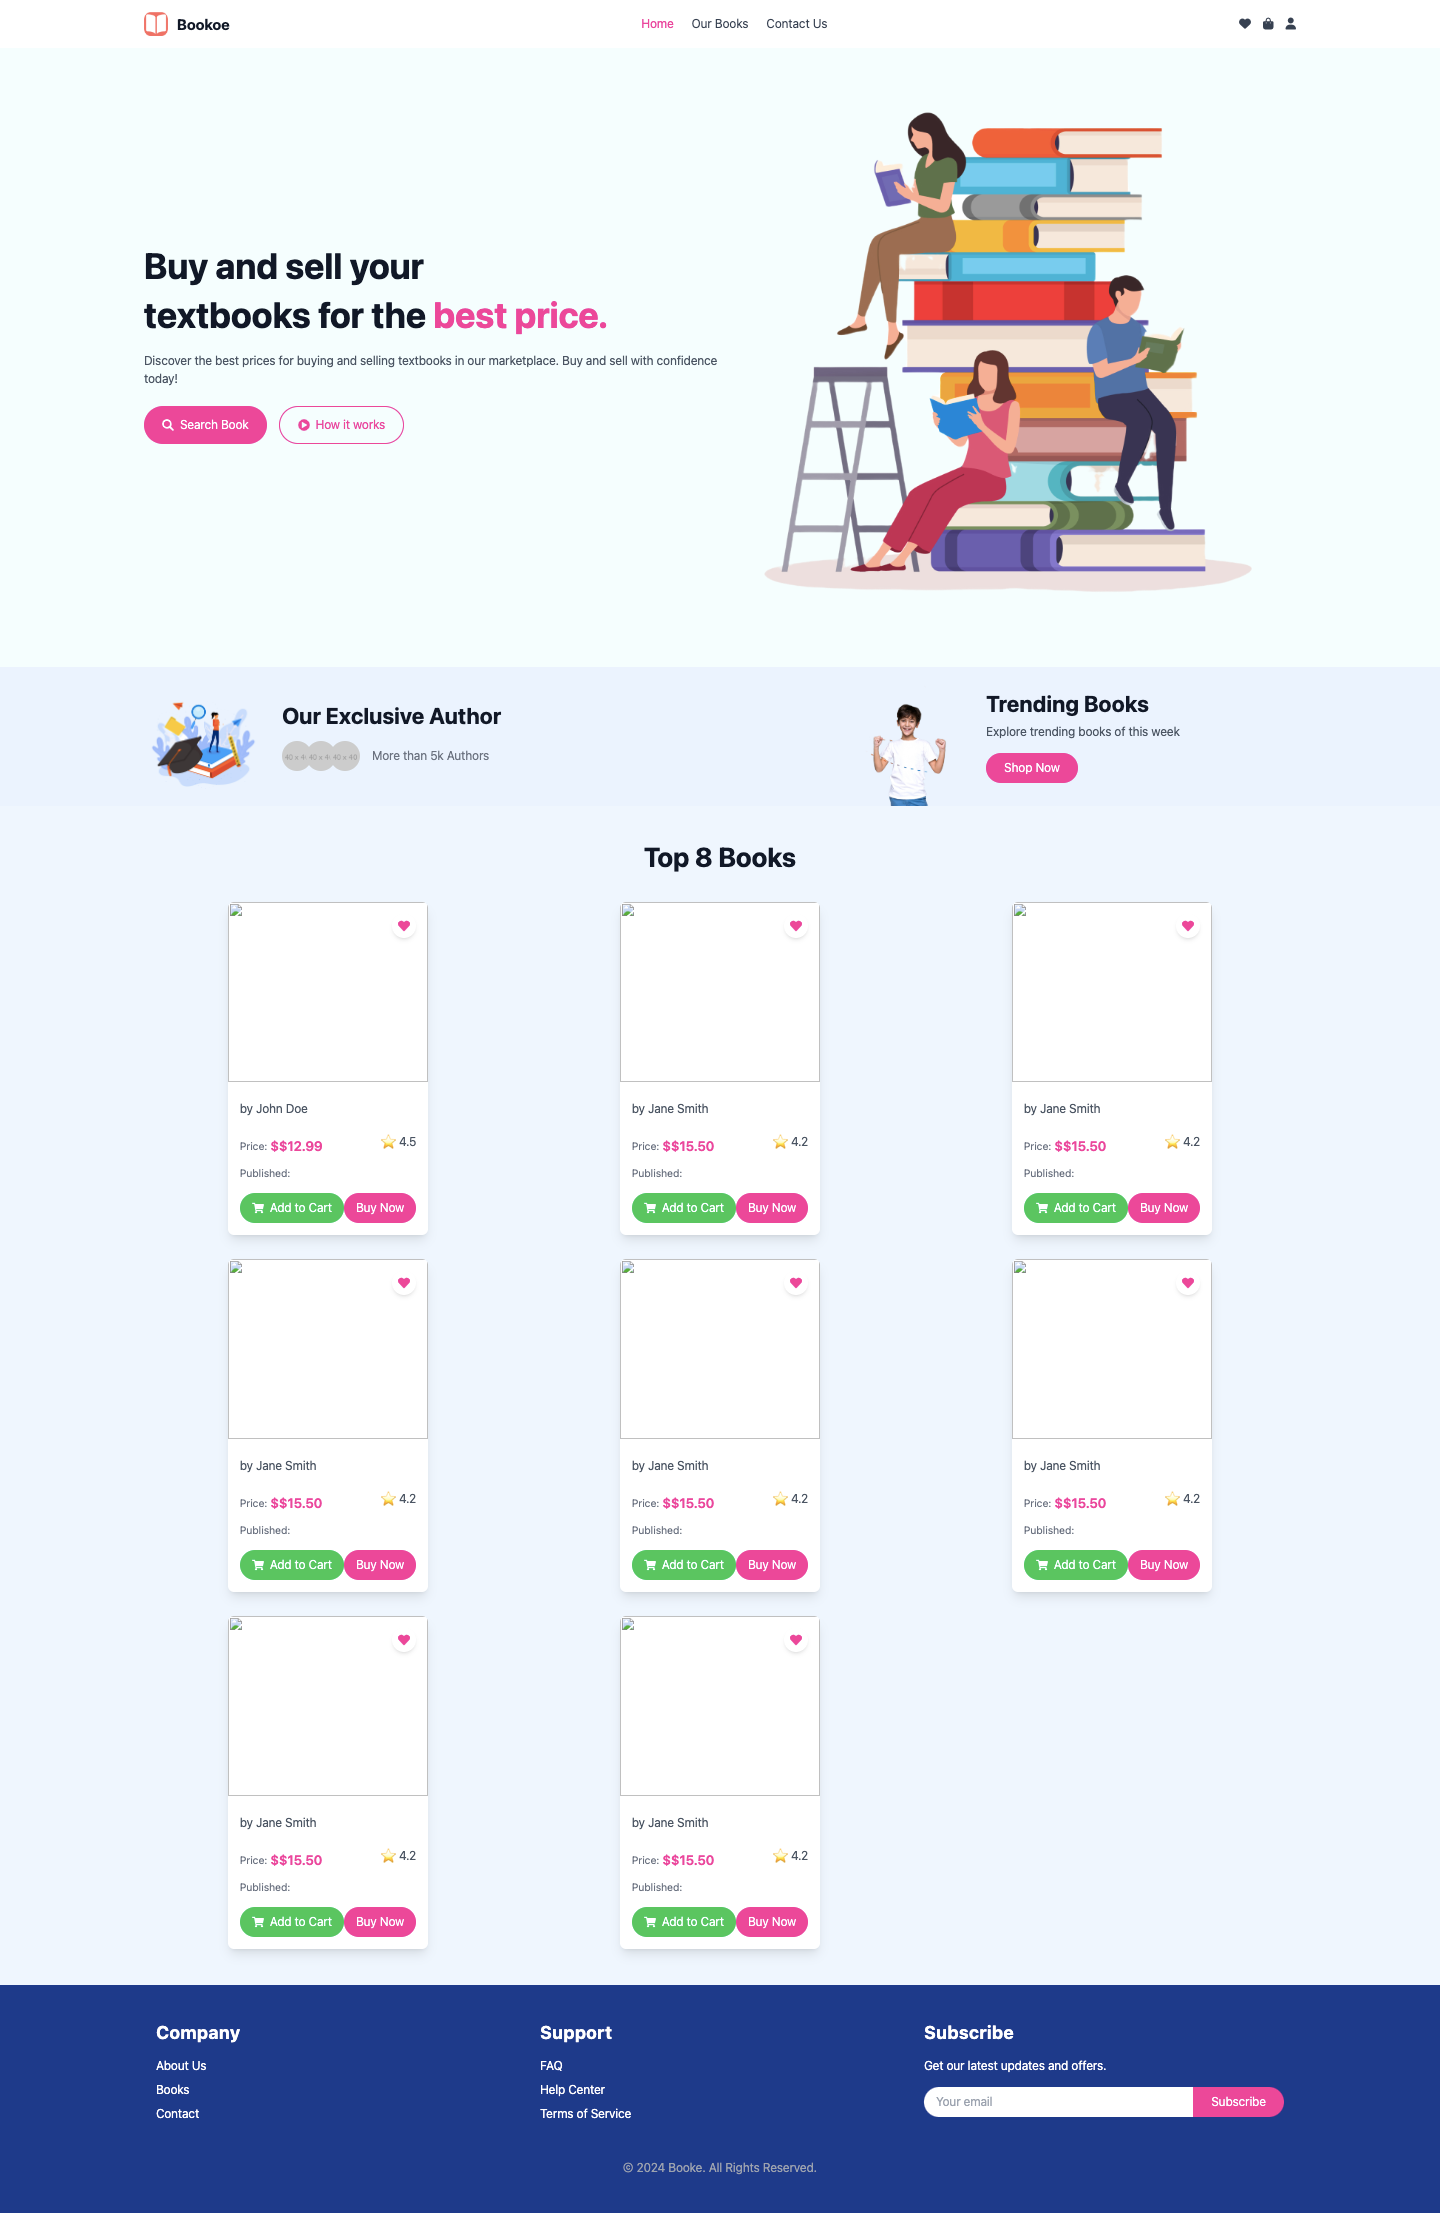
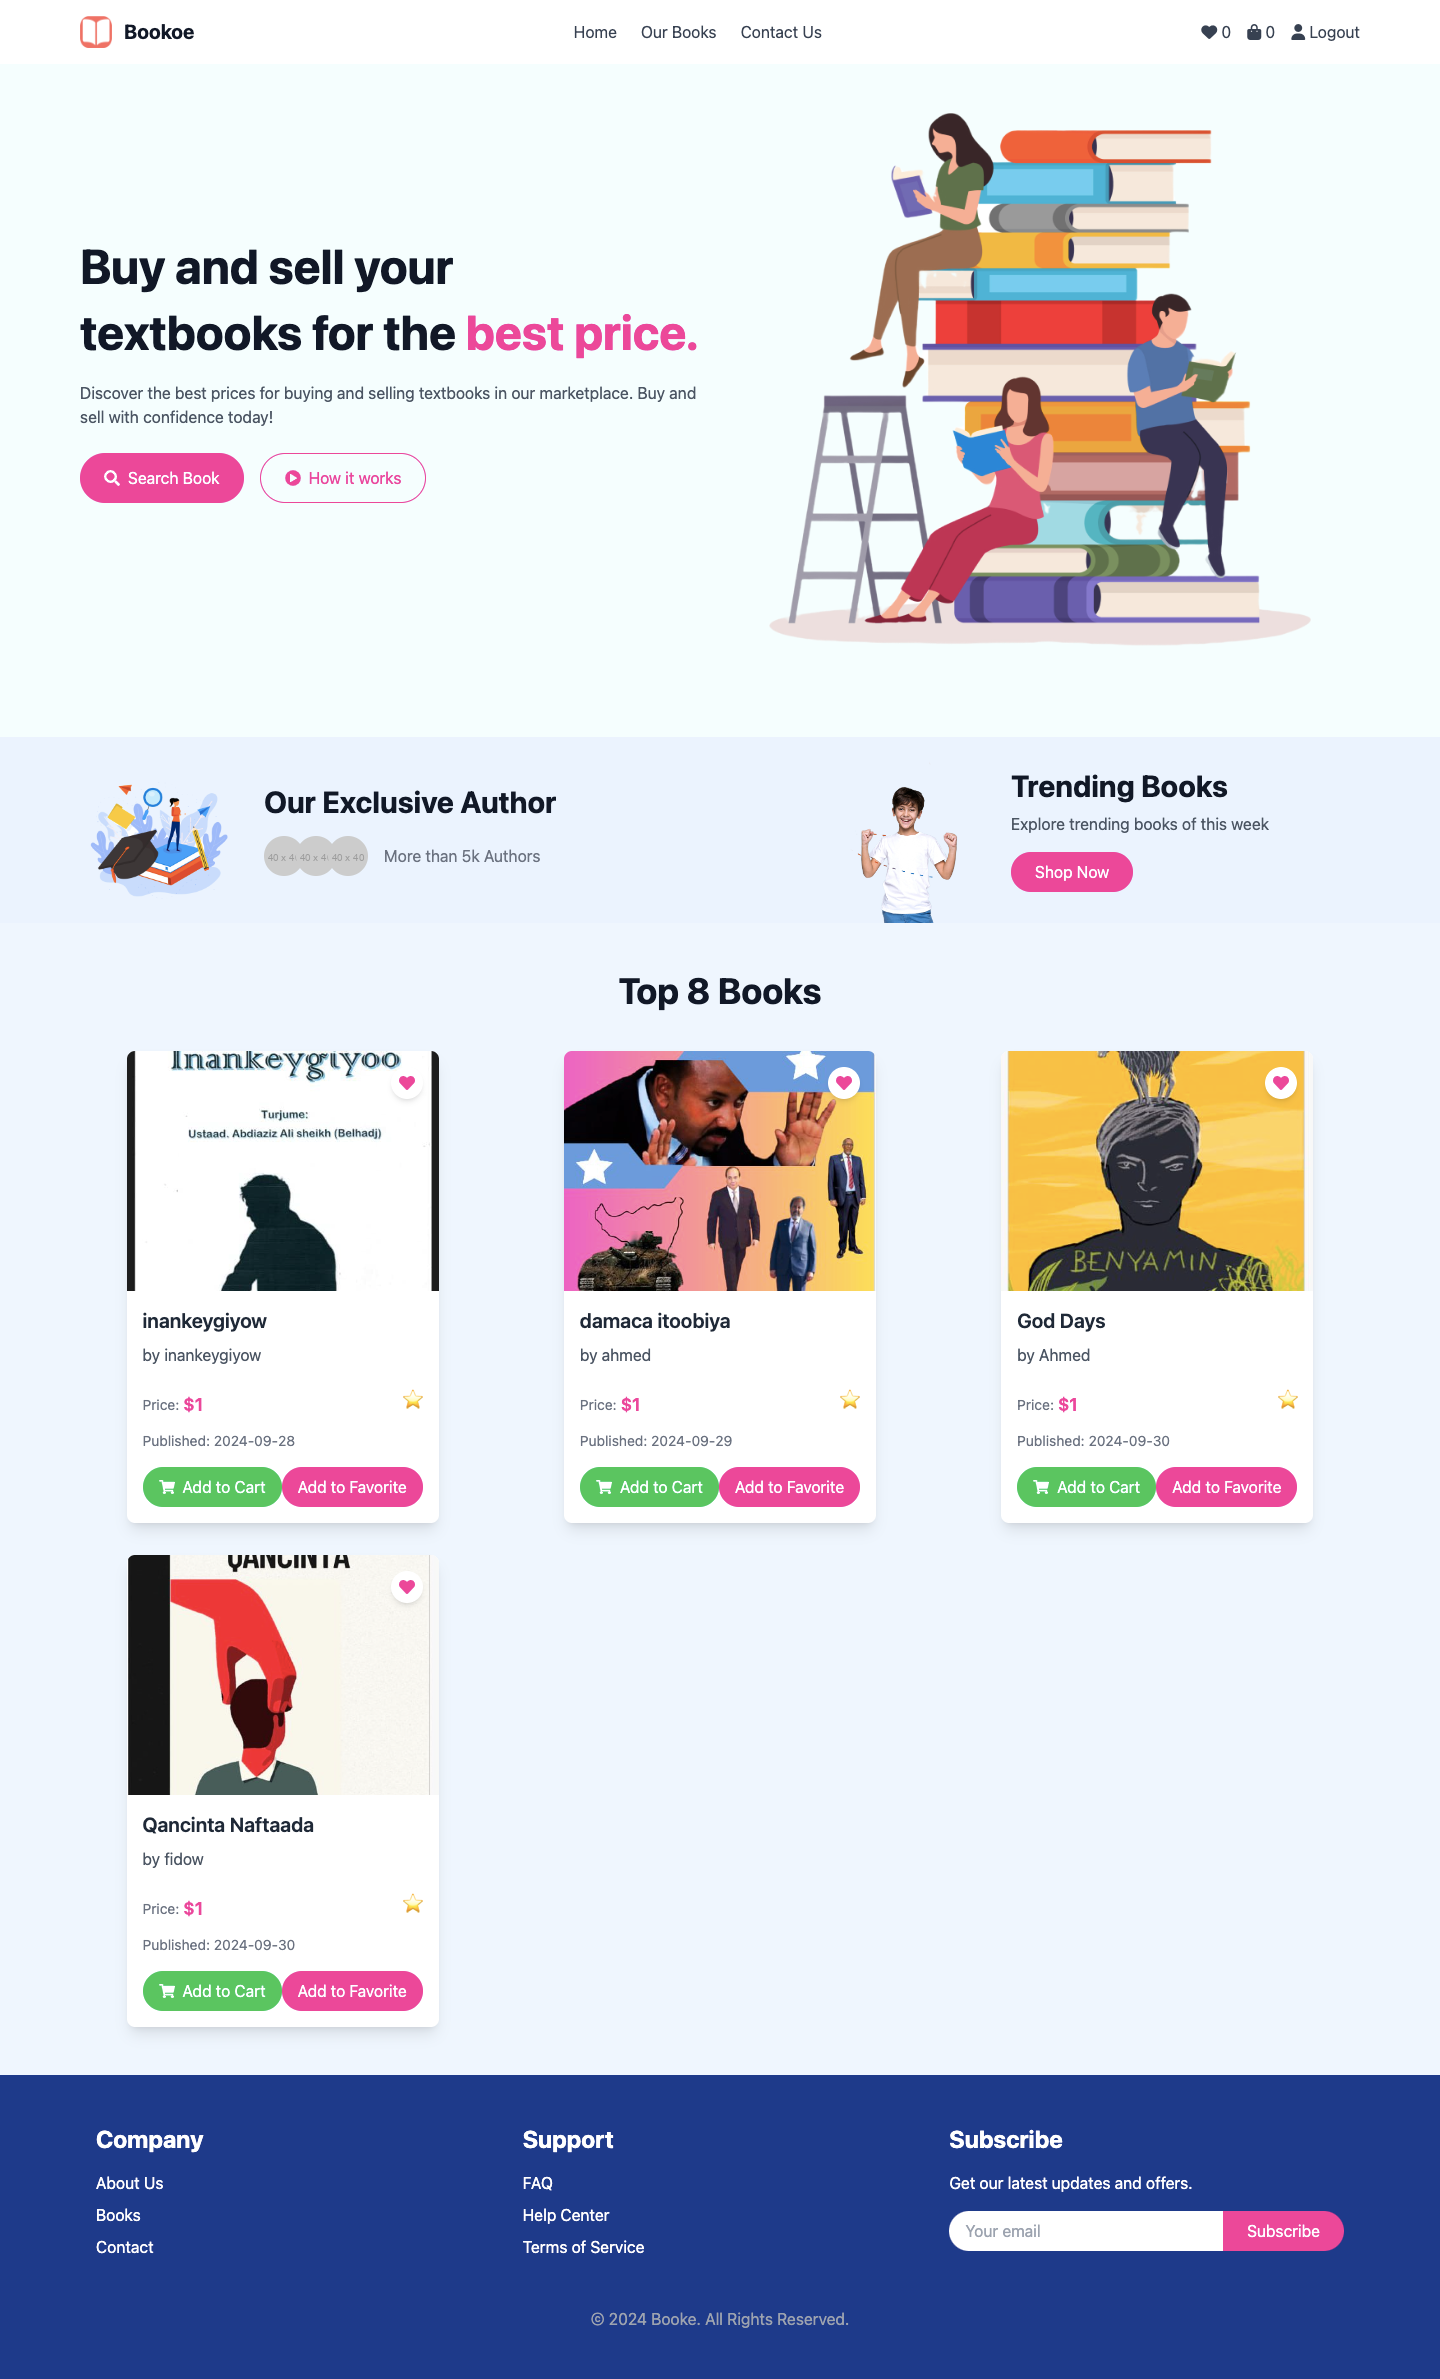
....

diff --git a/client/src/components/navbar.jsx b/client/src/components/navbar.jsx
@@ -1,93 +1,60 @@
 import React, { useState, useEffect } from 'react';
-import { NavLink } from 'react-router-dom';
+import { NavLink, useNavigate } from 'react-router-dom';
+import { useAuth } from '../contexts/AuthContext';
 import logo from "../assets/logo.png";
 
 const Navbar = () => {
   const [hasScrolled, setHasScrolled] = useState(false);
+  const { user, logout } = useAuth();
+  const [cartItems, setCartItems] = useState(0);
+  const [favoriteItems, setFavoriteItems] = useState(0);
+  const navigate = useNavigate();
 
-  // Detect scroll and add shadow to navbar
   useEffect(() => {
     const handleScroll = () => {
-      if (window.scrollY > 0) {
-        setHasScrolled(true);
-      } else {
-        setHasScrolled(false);
-      }
+      setHasScrolled(window.scrollY > 0);
     };
 
     window.addEventListener('scroll', handleScroll);
-
-    return () => {
-      window.removeEventListener('scroll', handleScroll);
-    };
+    return () => window.removeEventListener('scroll', handleScroll);
   }, []);
 
+  const handleLogout = () => {
+    logout();
+    navigate('/login');
+  };
+
   return (
-    <nav
-      className={`bg-white p-4 fixed top-0 w-full z-10 transition-shadow duration-300 ${
-        hasScrolled ? 'shadow-lg' : ''
-      }`}
-    >
+    <nav className={`bg-white p-4 fixed top-0 w-full z-10 transition-shadow duration-300 ${hasScrolled ? 'shadow-lg' : ''}`}>
       <div className="container mx-auto flex justify-between items-center">
         <div className="flex items-center">
           <img src={logo} alt="Logo" className="h-8 w-8" />
           <h1 className="ml-3 text-xl font-bold text-gray-900">Bookoe</h1>
         </div>
 
-        {/* Navigation Links */}
         <ul className="hidden md:flex space-x-6">
-          <li>
-            <NavLink
-              to="/"
-              className="text-gray-700 hover:text-pink-500"
-              style={({ isActive }) => ({
-                color: isActive ? '#ec4899' : '', // Active link color (pink)
-              })}
-            >
-              Home
-            </NavLink>
-          </li>
-          <li>
-            <NavLink
-              to="/books"
-              className="text-gray-700 hover:text-pink-500"
-              style={({ isActive }) => ({
-                color: isActive ? '#ec4899' : '', // Active link color (pink)
-              })}
-            >
-              Our Books
-            </NavLink>
-          </li>
-          <li>
-            <NavLink
-              to="/contact"
-              className="text-gray-700 hover:text-pink-500"
-              style={({ isActive }) => ({
-                color: isActive ? '#ec4899' : '', // Active link color (pink)
-              })}
-            >
-              Contact Us
-            </NavLink>
-          </li>
+          <li><NavLink to="/" className="text-gray-700 hover:text-pink-500">Home</NavLink></li>
+          <li><NavLink to="/books" className="text-gray-700 hover:text-pink-500">Our Books</NavLink></li>
+          <li><NavLink to="/contact" className="text-gray-700 hover:text-pink-500">Contact Us</NavLink></li>
         </ul>
 
-        {/* Icons */}
         <div className="flex items-center space-x-4">
-          <button className="text-gray-700 hover:text-pink-500">
-            <i className="fas fa-heart"></i>
-          </button>
-          <button className="text-gray-700 hover:text-pink-500">
-            <i className="fas fa-shopping-bag"></i>
-          </button>
-          <button className="text-gray-700 hover:text-pink-500">
-            <i className="fas fa-user"></i>
-          </button>
+          {user ? (
+            <>
+              <button className="text-gray-700 hover:text-pink-500">
+                <i className="fas fa-heart"></i> <span>{favoriteItems}</span>
+              </button>
+              <button className="text-gray-700 hover:text-pink-500">
+                <i className="fas fa-shopping-bag"></i> <span>{cartItems}</span>
+              </button>
+              <button className="text-gray-700 hover:text-pink-500" onClick={handleLogout}>
+                <i className="fas fa-user"></i> Logout
+              </button>
+            </>
+          ) : (
+            <NavLink to="/login" className="text-white hover:bg-pink-500 bg-pink-600 px-4 py-2 rounded-lg">Login</NavLink>
+          )}
         </div>
-
-        {/* Mobile Menu Icon */}
-        <button className="md:hidden text-gray-700 hover:text-pink-500">
-          <i className="fas fa-bars"></i>
-        </button>
       </div>
     </nav>
   );

diff --git a/client/src/components/cards/bookcard.jsx b/client/src/components/cards/bookcard.jsx
@@ -1,35 +1,41 @@
-import React from 'react';
-import { FaHeart, FaShoppingCart } from 'react-icons/fa';  // Import the icons
+import React, { useState } from 'react';
+import { FaHeart, FaShoppingCart } from 'react-icons/fa';
+import { useAuth } from '../../contexts/AuthContext';
 
-const BookCard = ({ book }) => {
+const BookCard = ({ book, onAddToCart, onAddToFavorite }) => {
+  const { user } = useAuth();
+
   return (
     <div className="bg-white shadow-lg rounded-lg overflow-hidden max-w-xs mx-auto relative">
       <img src={`http://localhost:8080/${book.image_url}`} alt={book.title} className="w-full h-60 object-cover" />
-
       <div className="p-4">
         <h3 className="text-xl font-semibold text-gray-800">{book.title}</h3>
         <p className="text-gray-600 mt-2">by {book.author}</p>
-
         <div className="flex items-center justify-between mt-3">
-          <p className='text-sm text-gray-500 mt-3 flex justify-center items-center text-center gap-1'>Price:  <p className="text-lg font-semibold text-pink-500">${book.price}</p></p>
-        
+          <p className='text-sm text-gray-500 mt-3 flex justify-center items-center text-center gap-1'>
+            Price: <span className="text-lg font-semibold text-pink-500">${book.price}</span>
+          </p>
           <span className="text-gray-600">⭐ {book.rating}</span>
         </div>
-
         <p className="text-sm text-gray-500 mt-3">Published: {book.published_date}</p>
 
-        {/* Add to Cart and Buy Now Buttons */}
         <div className="mt-4 flex justify-between items-center">
-          <button className="bg-green-500 text-white py-2 px-4 rounded-full hover:bg-green-600 flex items-center">
+          <button
+            onClick={() => onAddToCart(book)}
+            className="bg-green-500 text-white py-2 px-4 rounded-full hover:bg-green-600 flex items-center"
+          >
             <FaShoppingCart className="mr-2" /> Add to Cart
           </button>
-          <button className=" bg-pink-500 text-white py-2 px-4 rounded-full hover:bg-pink-600">
-            Buy Now
-          </button>
+          {user && (
+            <button
+              onClick={() => onAddToFavorite(book)}
+              className="bg-pink-500 text-white py-2 px-4 rounded-full hover:bg-pink-600"
+            >
+              Add to Favorite
+            </button>
+          )}
         </div>
       </div>
-
-      {/* Favorite Button (absolute positioning to top-right corner) */}
       <button className="absolute top-4 right-4 bg-white p-2 rounded-full shadow-md hover:bg-pink-100">
         <FaHeart className="text-pink-500" />
       </button>

diff --git a/client/src/App.jsx b/client/src/App.jsx
@@ -1,4 +1,4 @@
-import React from 'react';
+import React, { useContext } from 'react';
 import { BrowserRouter as Router, Routes, Route } from 'react-router-dom';
 import Home from './pages/Home';
 import OurBooks from './pages/OurBooks';
@@ -7,22 +7,37 @@ import Navbar from './components/navbar';
 import NotFound from './pages/NotFound';
 import Login from './pages/Login';
 import Register from './pages/Register';
+import { AuthProvider, useAuth } from './contexts/AuthContext.jsx';
 
 
 const App = () => {
   return (
-    <Router>
-      <Navbar /> This will be displayed on all pages
-      <Routes>
-        <Route path="/" element={<Home />} />
-        <Route path="/books" element={<OurBooks />} />
-        <Route path="/contact" element={<Contact />} />
-        <Route path="/register" element={<Register />} />
-        <Route path="/login" element={<Login />} />
-        <Route path="*" element={<NotFound />} />
-      </Routes>
-    </Router>
+    <AuthProvider>
+      <Router>
+        <AuthAwareNavbar />
+        <Routes>
+          <Route path="/" element={<Home />} />
+          <Route path="/books" element={<OurBooks />} />
+          <Route path="/contact" element={<Contact />} />
+          <Route path="/register" element={<Register />} />
+          <Route path="/login" element={<Login />} />
+          <Route path="*" element={<NotFound />} />
+        </Routes>
+      </Router>
+    </AuthProvider>
   );
+};
+
+// Show navbar only if the user is not on login/register pages
+const AuthAwareNavbar = () => {
+  const { user } = useAuth();
+  const currentPath = window.location.pathname;
+
+  if (currentPath === '/login' || currentPath === '/register') {
+    return null;
+  }
+
+  return <Navbar user={user} />;
 };
 
 export default App;

diff --git a/client/src/contexts/AuthContext.jsx b/client/src/contexts/AuthContext.jsx
@@ -1,0 +1,29 @@
+import React, { createContext, useState, useContext } from 'react';
+import { useCookies } from 'react-cookie';
+
+const AuthContext = createContext();
+
+export const AuthProvider = ({ children }) => {
+  const [cookies, setCookie, removeCookie] = useCookies(['auth_token']);
+  const [user, setUser] = useState(cookies.auth_token ? { email: 'user@example.com' } : null);
+
+  const login = (token) => {
+    setCookie('auth_token', token, { path: '/', maxAge: 3600 });
+    setUser({ email: 'user@example.com' });
+  };
+
+  const logout = () => {
+    removeCookie('auth_token');
+    setUser(null);
+  };
+
+  return (
+    <AuthContext.Provider value={{ user, login, logout }}>
+      {children}
+    </AuthContext.Provider>
+  );
+};
+
+export const useAuth = () => {
+  return useContext(AuthContext);
+};

diff --git a/nodejsserver/Controllers/customerUser.js b/nodejsserver/Controllers/customerUser.js
@@ -4,7 +4,7 @@ const bcrypt = require("bcryptjs");
 const multer = require("multer");
 const path = require("path");
 
-const JWTSECRET = process.env.JWTSECRET
+const JWTSECRET = process.env.JWTSECRET || "HGRrwEJYTGU75hg346htfFDG657nbnfewgfjhLkiutygu?jgdjP"
 
 const storage = new  multer.diskStorage({
     destination: (req, file, cb)=>{
@@ -56,6 +56,7 @@ exports.userCustomerLogin = async (req, res) => {
         if(!isMatch) {
             return res.status(404).json({message: "Your credentials are incorrect 😭"});
         }
+        console.log("secret key is " + JWTSECRET)
 
         const token = jwt.sign({user_id: checkUser._id}, JWTSECRET,{expiresIn: "2d"});
         return res.status(200).json({message: "Success Login✅", token, checkUser});

diff --git a/client/src/pages/Login.jsx b/client/src/pages/Login.jsx
@@ -42,8 +42,8 @@ function Login() {
     if (!validation()) return;
 
     try {
-      const response = await axios.post("http://localhost:5000/login", logininfo); // Adjust your API endpoint
-      const { token, Finduser } = response.data; // Assuming the response contains token and user info
+      const response = await axios.post("http://localhost:5000/customer/login", logininfo); // Adjust your API endpoint
+      const { token, checkUser } = response.data; // Assuming the response contains token and user info
 
       // Set the token in cookies (it will be stored for 1 hour)
       setCookie("auth_token", token, { path: "/", maxAge: 3600 });

diff --git a/nodejsserver/server.js b/nodejsserver/server.js
@@ -1,8 +1,9 @@
 const express = require('express');
 const cors = require('cors');
 const connBD = require('./db/connDb');
-const customerRouter = require("./Routers/customerUser")
 require('dotenv').config();
+const customerRouter = require("./Routers/customerUser")
+
 const PORT =  process.env.PORT || 5000;
 const app = express();
 
